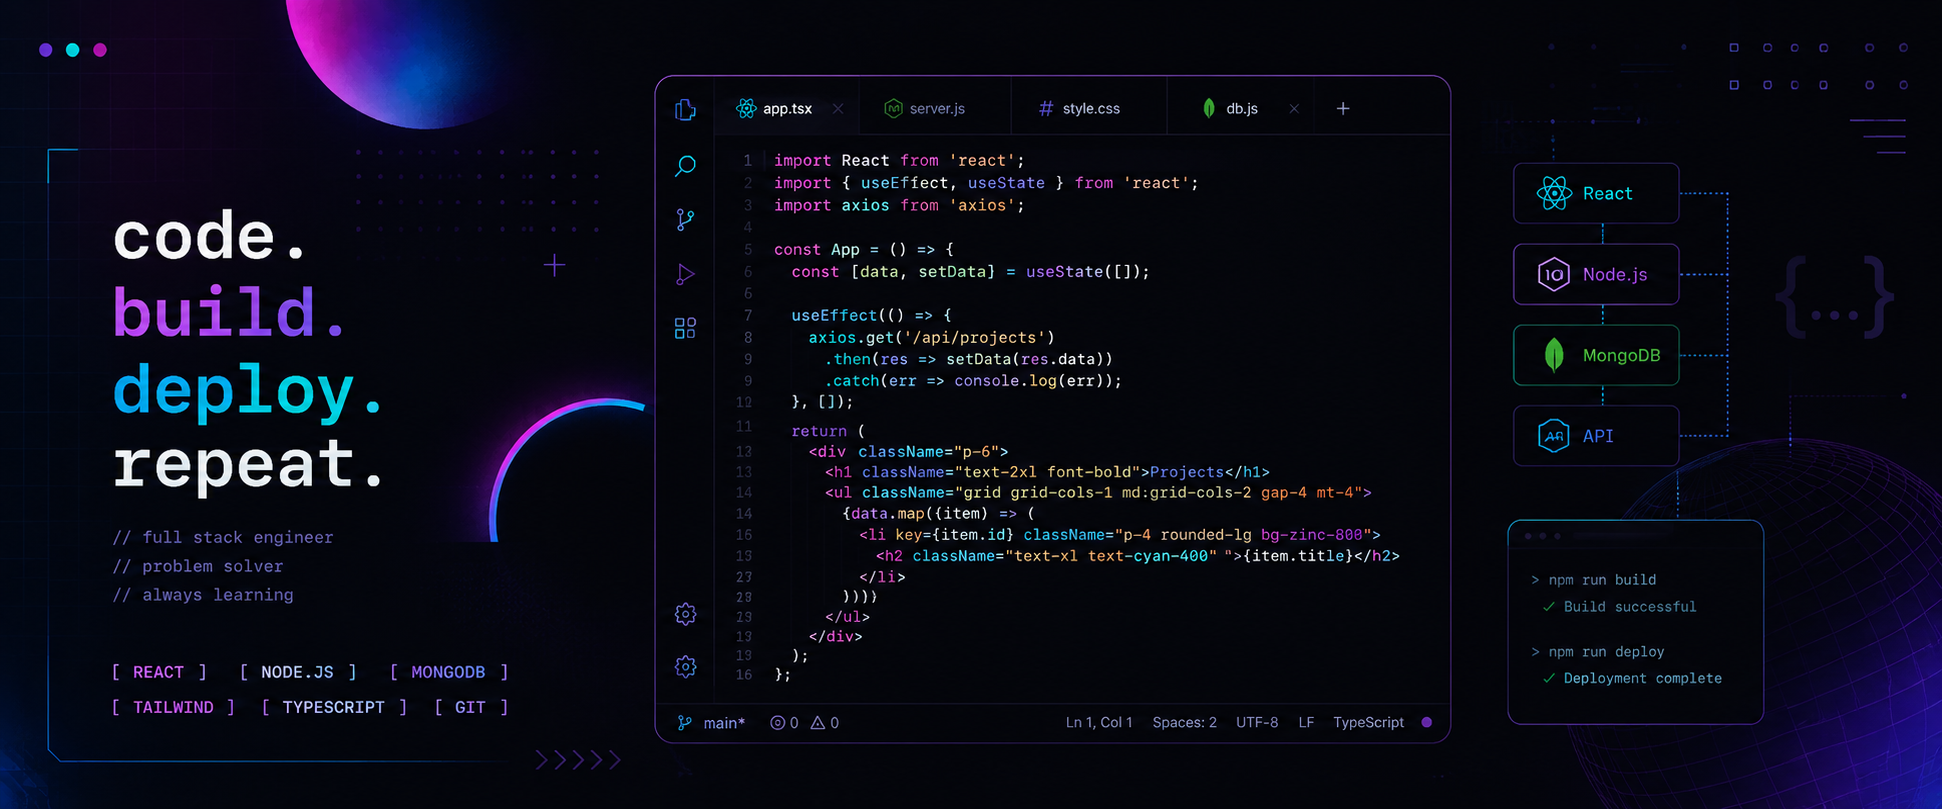
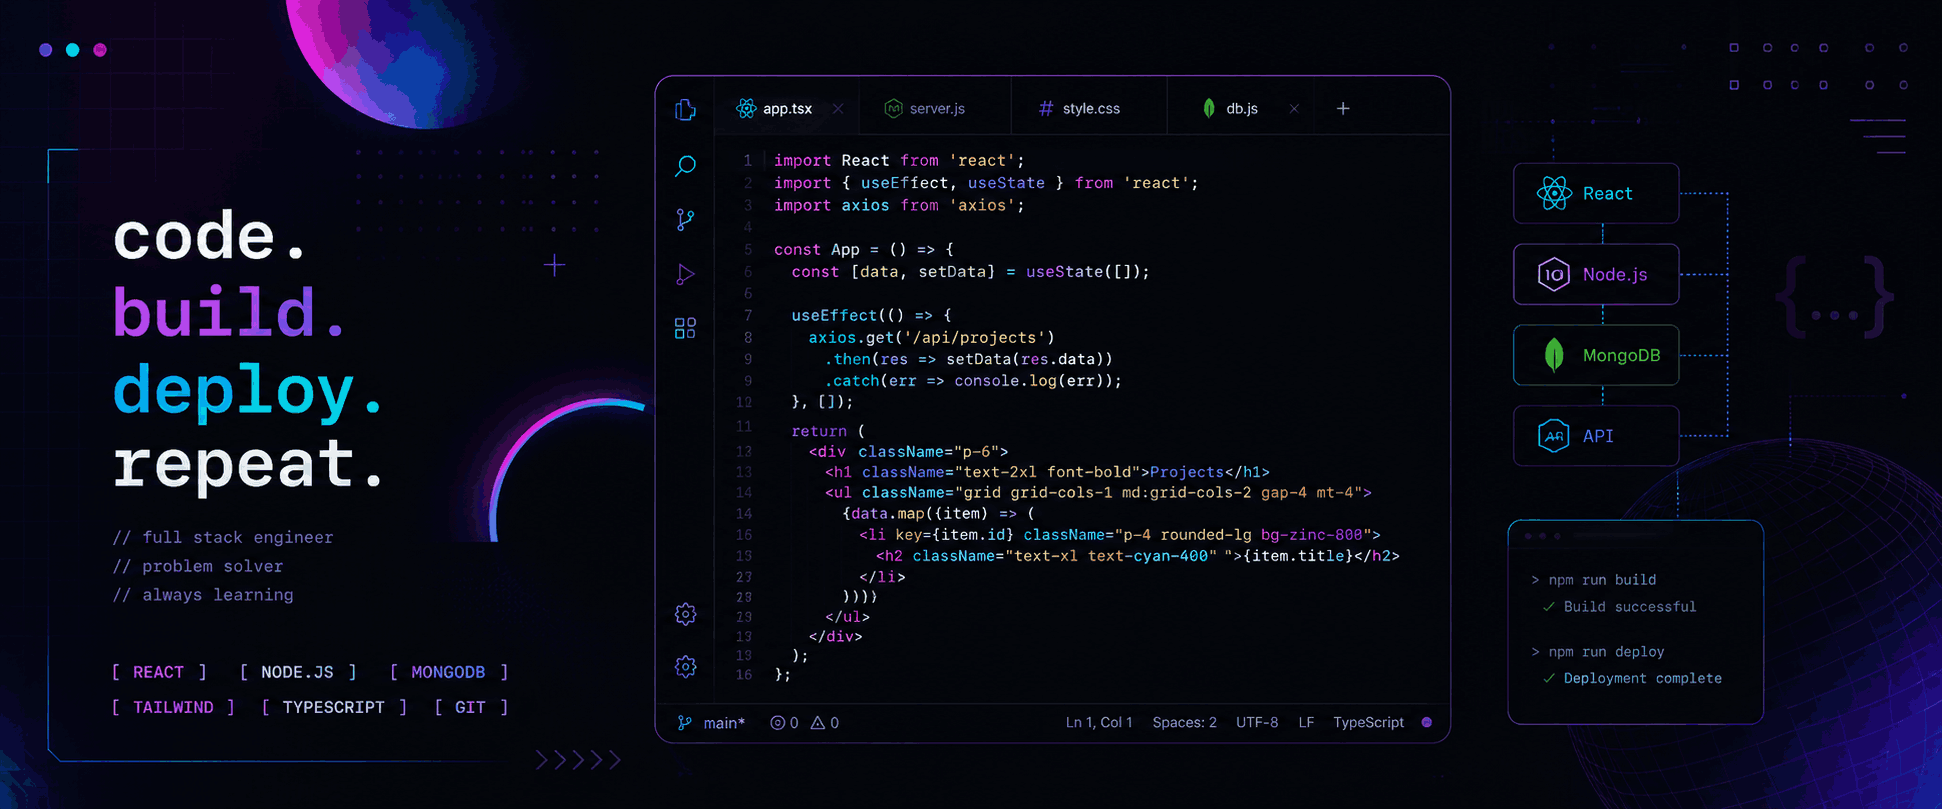
responsive

diff --git a/src/layouts/HomeLayout.tsx b/src/layouts/HomeLayout.tsx
@@ -69,7 +69,7 @@ function HomeLayout() {
         </div>
 
         {/* Sticky Navigation */}
-        <div className="sticky top-0 z-50 bg-black/90 backdrop-blur-lg border-b border-zinc-800">
+        <div className="sticky top-14 z-40 bg-black/90 backdrop-blur-lg border-b border-zinc-800">
           <nav className="h-14 sm:h-16 flex items-center overflow-x-auto">
             <NavLink
               to="/"